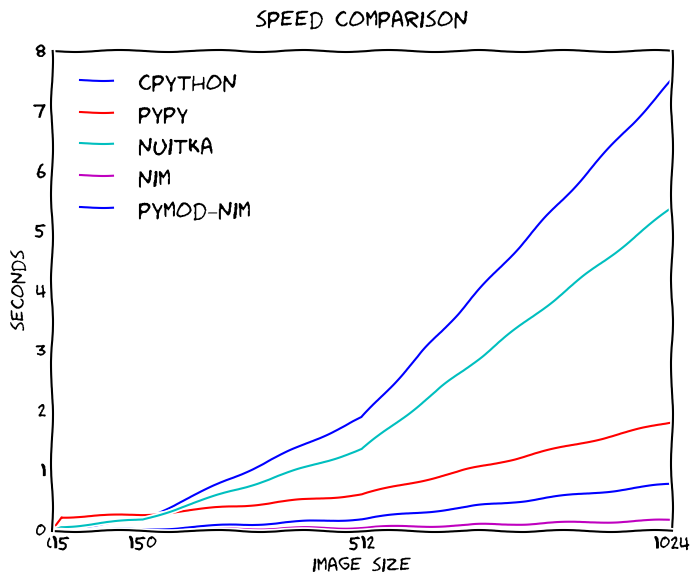
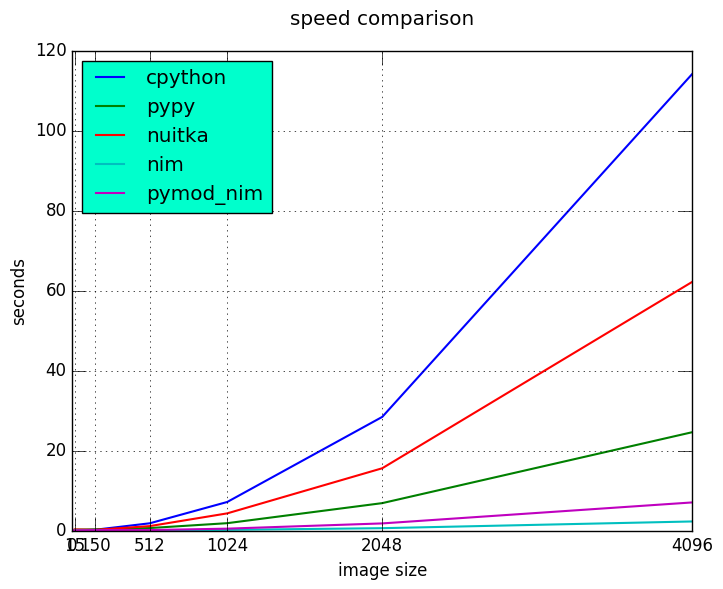
To tired to write a proper commit message.

diff --git a/benchmark.py b/benchmark.py
@@ -5,15 +5,14 @@ import matplotlib.pyplot as plt
 
 BASE_PATH = os.path.join(os.getcwd(), 'images')
 
-
 def st_time(func):
     from functools import wraps
     import time
 
     @wraps(func)
-    def st_func(*args, **keyArgs):
+    def st_func(*args, **kwargs):
         t1 = time.time()
-        func(*args, **keyArgs)
+        func(*args, **kwargs)
         t2 = time.time()
         return t2 - t1
 
@@ -52,40 +51,40 @@ def pymod_nim(image_path):
     return pymodtga.main(image_path)
 
 
-with plt.xkcd():
-    fig = plt.figure()
-    plt.gca().xaxis.set_major_locator(plt.NullLocator())
-    ax = fig.add_subplot(111)
-    ax.tick_params(axis=u'both', which=u'both',length=0)
-    x = [0, 15, 150, 512, 1024, 2048, 4096]
-    # x = [0, 15, 150, 512, 1024]
-    tests = [cpython, pypy, nuitka, nim, pymod_nim]
-    # tests = [pypy, nim]
-    # plt.annotate(
-    #         'WARM-UP TIME',
-    #         xy=(15, 0.173), arrowprops=dict(arrowstyle='->'), xytext=(100, 2))
+# with plt.xkcd():
+fig = plt.figure()
+plt.gca().xaxis.set_major_locator(plt.NullLocator())
+ax = fig.add_subplot(111)
+ax.tick_params(axis=u'both', which=u'both',length=10)
+x = [0, 15, 150, 512, 1024, 2048, 4096]
+# x = [0, 15, 150, 512, 1024]
+tests = [cpython, pypy, nuitka, nim, pymod_nim]
+# tests = [nim, pymod_nim, pypy]
+# plt.annotate(
+#         'WARM-UP TIME',
+#         xy=(15, 0.173), arrowprops=dict(arrowstyle='->'), xytext=(100, 2))
 
-    for t in tests:
-        res = [0, ]
-        for image in ["pie_15_11.tga", "pie_150_113.tga",
-                      "pie_512_384.tga", "pie_1024_768.tga",
-                      "pie_2048_1536.tga", "pie_4096_3072.tga"]:
-        # for image in ["pie_15_11.tga", "pie_150_113.tga",
-        #             "pie_512_384.tga", "pie_1024_768.tga"]:
-            image_path = os.path.join(BASE_PATH, image)
-            res.append(t(image_path))
-        ax.plot(x, res, linewidth=1.5, label=t.__name__)
+for t in tests:
+    res = [0, ]
+    for image in ["pie_15_11.tga", "pie_150_113.tga",
+                  "pie_512_384.tga", "pie_1024_768.tga",
+                  "pie_2048_1536.tga", "pie_4096_3072.tga"]:
+    # for image in ["pie_15_11.tga", "pie_150_113.tga",
+    #             "pie_512_384.tga", "pie_1024_768.tga"]:
+        image_path = os.path.join(BASE_PATH, image)
+        res.append(t(image_path))
+        print "benchmarking: {} with size: {}".format(t.__name__, image)
+    ax.plot(x, res, linewidth=1.5, label=t.__name__)
 
-    plt.title('speed comparison', y=1.04)
+plt.title('speed comparison', y=1.04)
 
-    legend = ax.legend(loc='upper left', frameon=False)
-    # legend.get_frame().set_facecolor('#00FFCC')
-    ax.set_xticks(x)
-    ax.set_ylabel("seconds")
-    ax.set_xlabel("image size")
-    labels = ax.set_xticklabels(x)
-    # ax.grid(True)
+legend = ax.legend(loc='upper left', frameon=True)
+legend.get_frame().set_facecolor('#00FFCC')
+ax.set_xticks(x)
+ax.set_ylabel("seconds")
+ax.set_xlabel("image size")
+ax.grid(True)
 
 
-    # plt.show()
-    plt.savefig("benchmark.png", bbox_inches='tight')
+# plt.show()
+plt.savefig("benchmark_top_3.png", bbox_inches='tight')

diff --git a/pymodtga.py b/pymodtga.py
@@ -1,13 +1,13 @@
 import sys
 import json
 
-import ntga
+import _ntga
 
 
 class Image(object):
 
     def __init__(self, filename):
-        _data = ntga.loads(filename)
+        _data = _ntga.loads(filename)
         self._header = json.loads(_data["header"])
         self._footer = json.loads(_data["footer"])
         for section in [self._header, self._footer]:
@@ -15,25 +15,45 @@ class Image(object):
                 setattr(self, k, v)
         self.pixels = _data["pixels"]
 
-    def save(self, filename):
+    def save(self, filename, compress=False):
         for section in [self._header, self._footer]:
             for k in section:
                 section[k] = getattr(self, k)
-        ntga.saves(json.dumps(self._header), json.dumps(self._footer),
-                   self.pixels, filename)
+        _ntga.saves(json.dumps(self._header), json.dumps(self._footer),
+                    self.pixels, filename, int(compress))
+
+    @property
+    def pixel_size(self):
+        if self._header['image_type'] in [3, 11]:
+            return 1
+        elif self._header['image_type'] in [2, 10]:
+            if self._header['pixel_depth'] == 16 or self._header['pixel_depth'] == 24:
+                return 3
+            elif self._header['pixel_depth'] == 32:
+                return 4
+            else:
+                raise ValueError("Invalid pixel depth")
+        else:
+            raise ValueError("Invalid pixel depth")
 
 
 def main(image_path=None):
     image_path = image_path if image_path else sys.argv[1]
     image = Image(image_path)
-    pixel = (255, 0, 0)
-    middle = image.image_height // 2
 
-    for row in range(middle):
-        for i in range(image.image_width):
-            image.pixels[(image.image_width * row) + i] = pixel
+    if image.pixel_size == 1:
+        pixel = (255, )
+    elif image.pixel_size == 3:
+        pixel = (255, 0, 0)
+    elif image.pixel_size == 4:
+        pixel = (255, 0, 0, 255)
+    else:
+        raise ValueError("this should not happen")
 
-    image.save("dump.tga")
+    for i in range(5):
+        image.pixels[i] = pixel
+
+    image.save("dump.tga", compress=True)
 
 
 if __name__ == "__main__":
